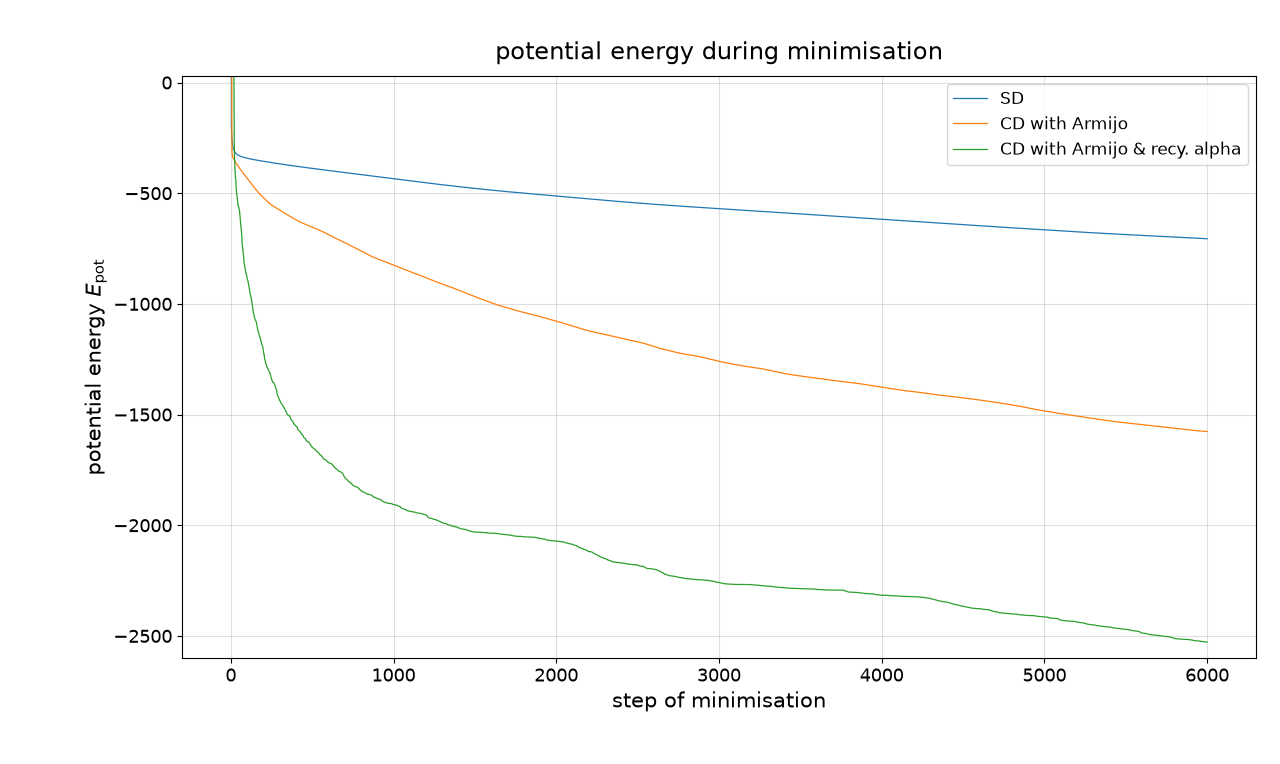
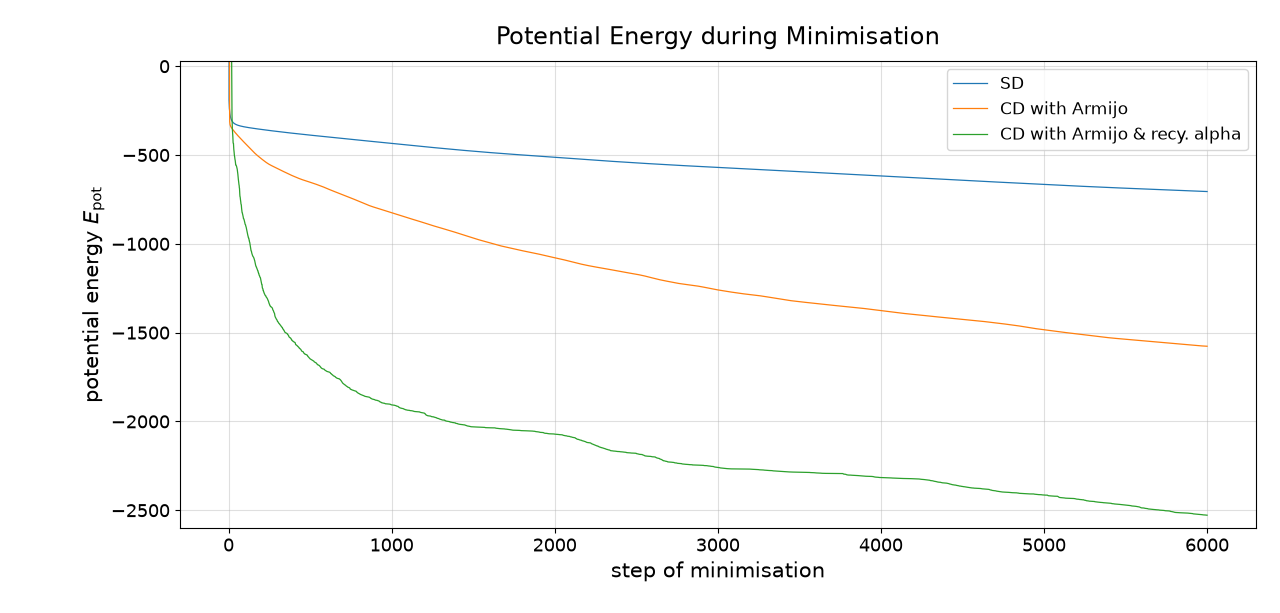
bolder neue überschrift

diff --git a/Methoden-vergleichen.py b/Methoden-vergleichen.py
@@ -13,8 +13,10 @@ from scipy.constants import R
 #   E I N S T E L L U N G E N
 # ----------------------------------------------------------------
 
-project_dir = Path("/Users/arntvonbodelschwingh/moritz_code_speicher/md-project-08-group-04")
+project_dir = Path(__file__).resolve().parent
 output_dir = project_dir / "minimization_output"
+
+output_dir.mkdir(parents=True, exist_ok=True)
 
 use_existing_files = True   # True: vorhandene Dateien benutzen
 force_rerun = False         # True: Simulationen immer neu starten
@@ -43,21 +45,20 @@ base_args = {
     "seed": 420,
     "max_steps": 100000,
 }
+"""
 methods = [
     {
-        "label": "CD with Armijo & recy. alpha, decr. - 100k",
+        "label": "CD with Armijo & recy. alpha, decr. 100k",
         "SD": False,
         "recoursive_alpha": True,
         "alpha_method": "amijo",
-        "rec_alpha_value": 18.0,´
+        "rec_alpha_value": 18.0,
         "alpha_new_idea": True,
     },
 ]
-
-
-
-
 """
+
+
 
 methods = [
     {
@@ -68,6 +69,12 @@ methods = [
         "rec_alpha_value": 2.0,
         "alpha_new_idea": False,
     },
+
+]
+
+"""
+==================================================
+12
         {
         "label": "CD with Armijo",
         "SD": False,
@@ -92,11 +99,8 @@ methods = [
         "rec_alpha_value": 2.8,
         "alpha_new_idea": True,
     },
-]
-"""
-"""
-==================================================
-12
+
+
 
     {
         "label": "CD with Armijo",
@@ -325,7 +329,7 @@ def plot_quantity(
 plot_quantity(
     column="Fmean",
     ylabel=r"mean force $F_{\mathrm{mean}}$",
-    title="mean force during minimisation",
+    title="Mean Force during Minimisation",
     ylim=(-30, 30),
     filename="vergleich_Fmean.png"
 )
@@ -333,7 +337,7 @@ plot_quantity(
 plot_quantity(
     column="Frms",
     ylabel=r"rms-force $F_{\mathrm{RMS}}$",
-    title="rms-force during minimisation",
+    title="rms-Force during Minimisation",
     ylim=(-30, 30),
     filename="vergleich_Frms.png"
 )
@@ -341,7 +345,7 @@ plot_quantity(
 plot_quantity(
     column="Fmax",
     ylabel=r"max-force $F_{\mathrm{max}}$",
-    title="max-force during minimisation",
+    title="max-Force during Minimisation",
     ylim=(-30, 30),
     filename="vergleich_Frms.png"
 )
@@ -349,7 +353,7 @@ plot_quantity(
 plot_quantity(
     column="E_pot",
     ylabel=r"potential energy $E_{\mathrm{pot}}$",
-    title="potential energy during minimisation",
+    title="Potential Energy during Minimisation",
     ylim=(-2600, 30),
     filename="vergleich_Epot.png"
 )

diff --git a/relative_angle_probability.py b/relative_angle_probability.py
@@ -14,7 +14,7 @@ from cluster_functions import read_xyz_trajectory
 # ================================================================
 
 XYZ_PATH = Path(
-    r"C:\Users\morit\_Uni-FU\Semester 4\Molekueldynamik\md-project-08-group-04\results\2026-07-16_18-51-01\my_simulation_pos-300K.xyz"
+    r"C:\Users\morit\_Uni-FU\Semester 4\Molekueldynamik\md-project-08-group-04\results\2026-07-15_19-30-00-5K\my_simulation_pos-5K.xyz"
 )
 
 # Boxlänge der kubischen Simulationsbox in nm
